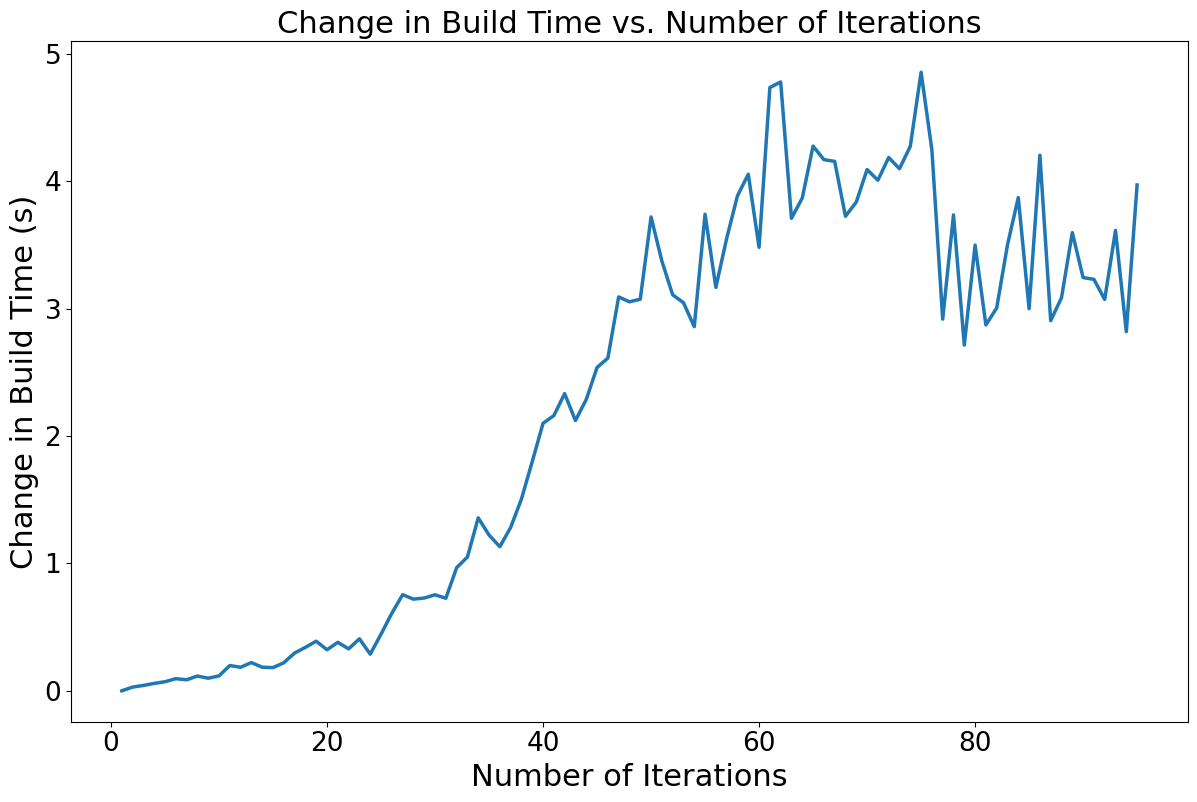
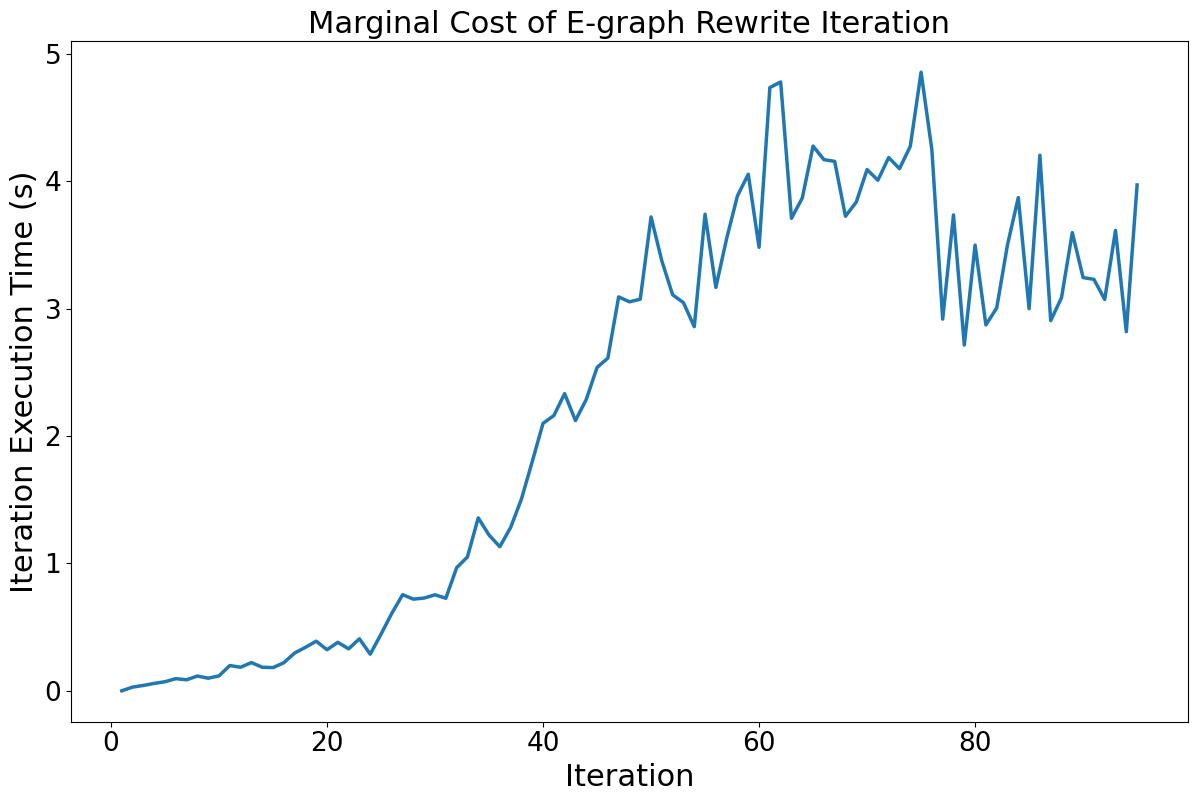
Updated labels

Changed region(s): [[0.2473, 0.0, 0.8037, 0.0623], [0.0, 0.2182, 0.0309, 0.7481], [0.4018, 0.9352, 0.6491, 0.9975]]

diff --git a/results/03_01_25/complexity_graph.py b/results/03_01_25/complexity_graph.py
@@ -24,10 +24,10 @@ if __name__ == "__main__":
     derivative_build_times = [0] + [avg_build_times[i] - avg_build_times[i-1] for i in range(1, len(avg_build_times))]
 
     plt.figure(figsize=(12, 8))
-    plt.title('Change in Build Time vs. Number of Iterations', fontsize=22)
+    plt.title('Marginal Cost of E-graph Rewrite Iteration', fontsize=22)
     plt.plot(iterations, derivative_build_times, linewidth=2.5)
-    plt.xlabel("Number of Iterations", fontsize=22)
-    plt.ylabel("Change in Build Time (s)", fontsize=22)
+    plt.xlabel("Iteration", fontsize=22)
+    plt.ylabel("Iteration Execution Time (s)", fontsize=22)
     plt.tight_layout()
     plt.xticks(fontsize=19)
     plt.yticks(fontsize=19)
